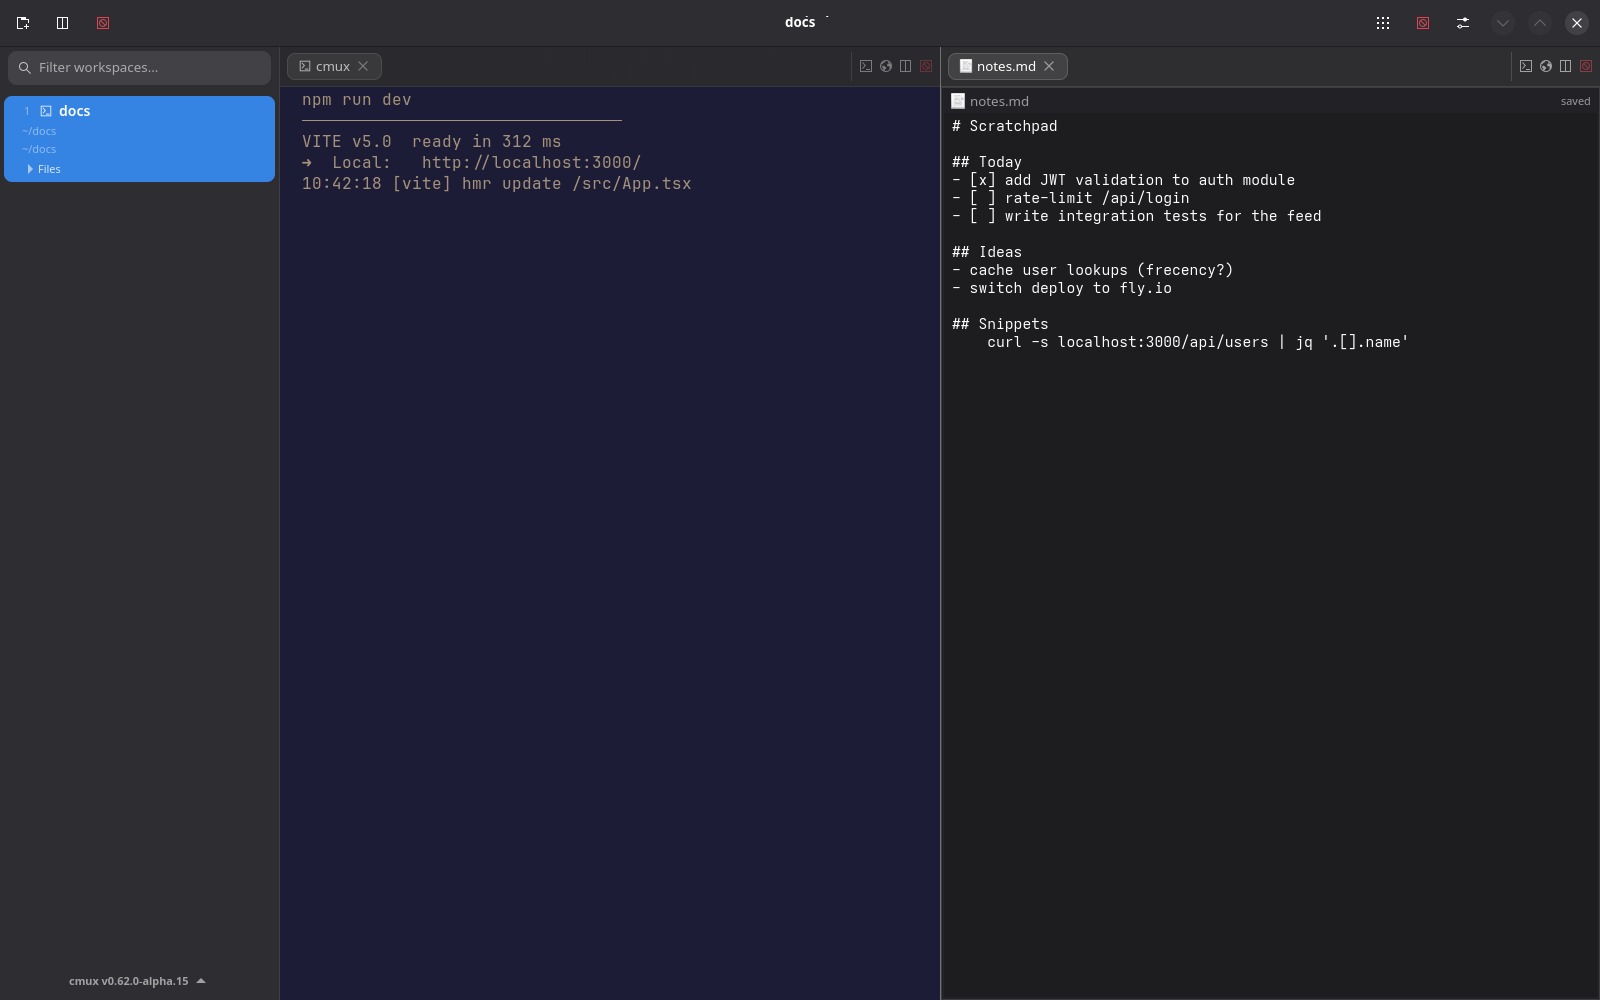
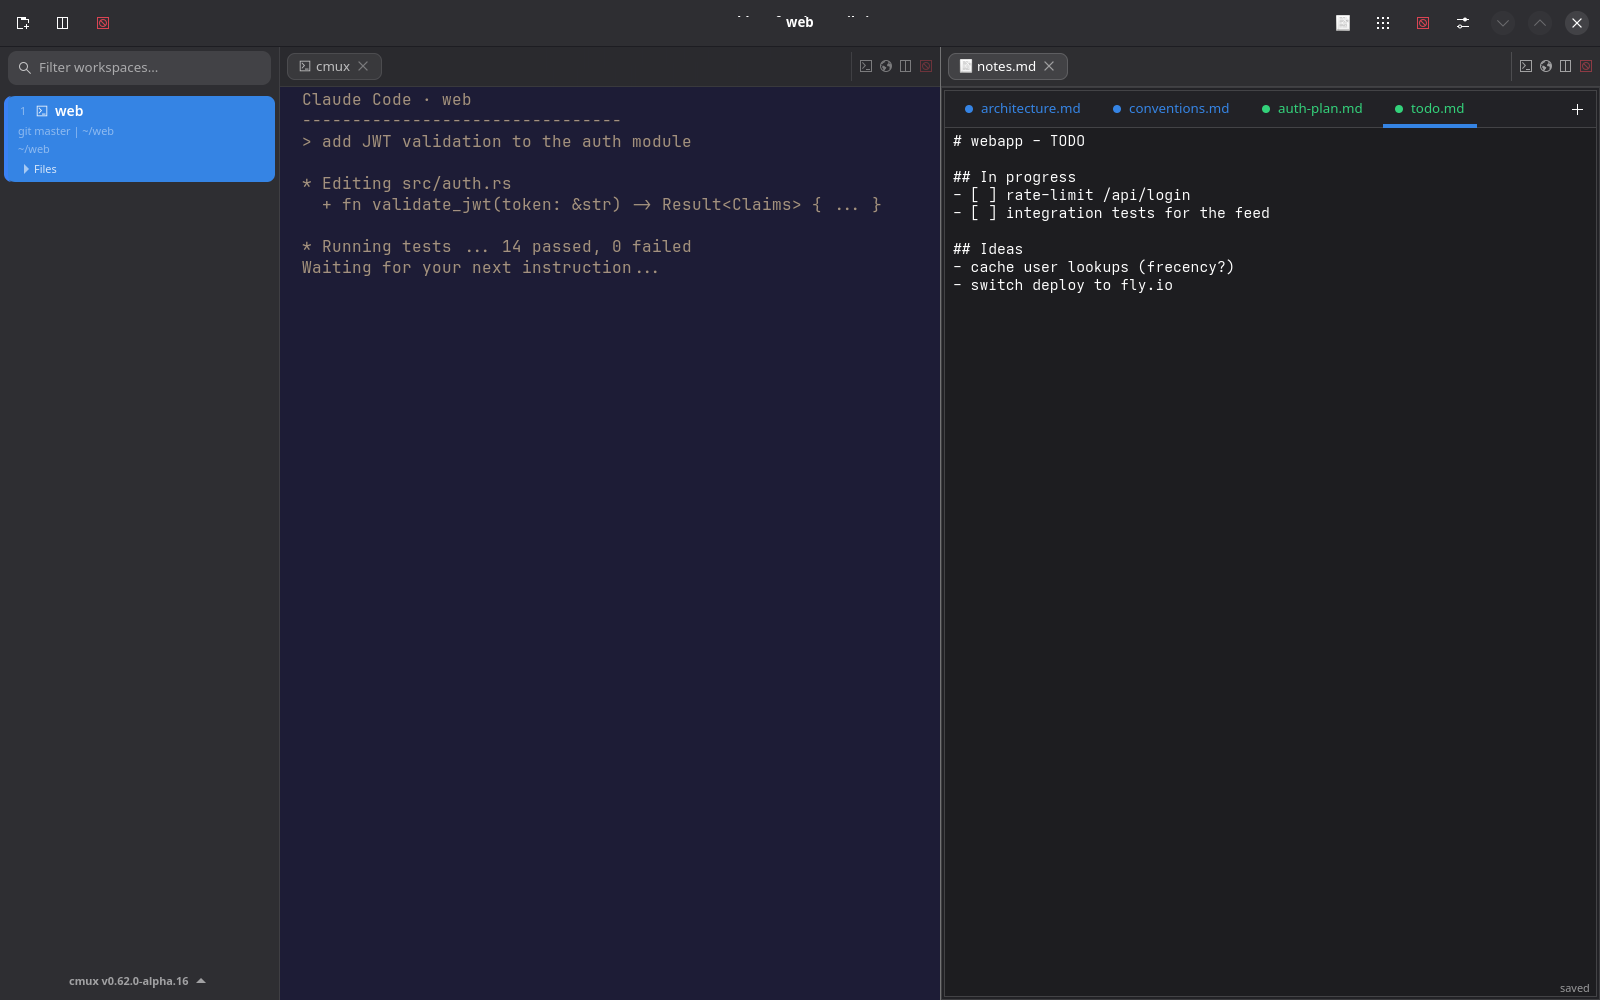
docs: notes README section + regenerated screenshot
Document the scope-grouped notes feature in the README and regenerate the
notes panel screenshot showing the colour-coded tabs and + button. Update the
headless capture staging (make-panels.sh) to populate the scope tree and open
the tabbed view.

Claude-Session: https://claude.ai/code/session_016wahdq1YnBJAzd18cvNpUj

diff --git a/README.md b/README.md
@@ -103,15 +103,25 @@ An opt-in multi-line input below a terminal for composing multi-line agent promp
 
 ### Panels — more than terminals
 
-Any pane can hold a non-terminal view: a **rendered Markdown** file, a **git diff** (with a Staged toggle and branch compare), a **project tree** with a file-type summary, an **editable Notes** scratchpad beside your terminal, or a full **WebKit browser** with a Playwright-style automation API.
+Any pane can hold a non-terminal view: a **rendered Markdown** file, a **git diff** (with a Staged toggle and branch compare), a **project tree** with a file-type summary, **scope-grouped Notes** beside your terminal, or a full **WebKit browser** with a Playwright-style automation API.
 
 | Markdown viewer | Diff viewer |
 |---|---|
 | ![Markdown viewer](docs/screenshots/markdown.png) | ![Diff viewer](docs/screenshots/diff.png) |
-| **Project visualizer** | **Notes scratchpad** |
-| ![Project visualizer](docs/screenshots/project.png) | ![Notes scratchpad](docs/screenshots/notes.png) |
+| **Project visualizer** | **Integrated browser** |
+| ![Project visualizer](docs/screenshots/project.png) | ![Integrated browser](docs/screenshots/browser.png) |
 
-![Integrated browser](docs/screenshots/browser.png)
+### Notes — scope-grouped scratchpads
+
+`cmux notes` opens an editable, auto-saved notes panel that knows **where you are**. Notes are organised into colour-coded **scope groups**, each holding any number of tabs (one per file, labelled by filename):
+
+- 🔵 **Global** — notes shared everywhere, not tied to a folder.
+- 🟢 **Folder** — notes for the current **git repo root** (or the working directory when it isn't a repo).
+- 🟣 **Host** — for `cmux ssh` sessions, notes scoped to the whole remote host (plus a Folder group for the remote project).
+
+Hit **+** to add a note (auto-named, double-click its tab to rename), and a note is **deleted from disk the moment it's empty** — they only persist once they have content. Everything is stored client-side under `~/.local/share/cmux/notes/`, so remote notes never touch the SSH bridge.
+
+![Scope-grouped notes](docs/screenshots/notes.png)
 
 ### Command palette & custom commands
 
@@ -148,7 +158,7 @@ Fuzzy command palette and workspace switcher. Define your own entries in `cmux.j
 - **Project visualizer** — `cmux project [path]` directory tree + file-type/size summary
 - **Finder previews** — inline image / video / **PDF** (poppler) previews in the file-preview panel
 - **File explorer** — sidebar tree with configurable double-click action (preview / default app / preferred editor) and **Insert Path / Insert Relative Path** into the focused terminal
-- **Notes scratchpad** — `cmux notes [file]` editable, auto-saved; path configurable in Settings
+- **Notes** — `cmux notes` scope-grouped scratchpads (colour-coded **Global / Host / Folder** tab groups, keyed to the git repo root), multiple notes per scope with a **+** to add and double-click-to-rename tabs; empty notes auto-delete, stored client-side under `~/.local/share/cmux/notes/`. `cmux notes <file>` still opens a single file
 - **Word wrap** — toggle line wrapping for the file preview/editor and notes panels (Settings → Editor & Files)
 - **History pane** — `cmux history` searchable day-grouped closed/focused workspaces
 - **Vault pane** — `cmux vault` searchable index of past Claude Code / Codex sessions, click to resume